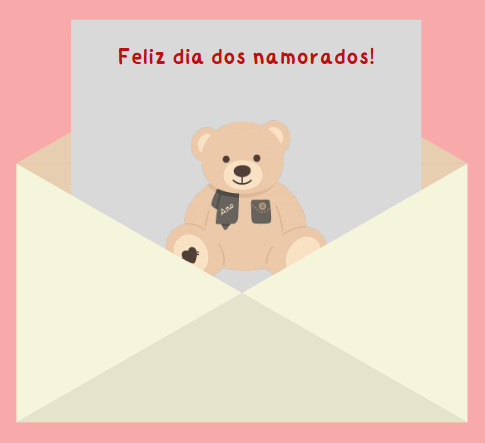
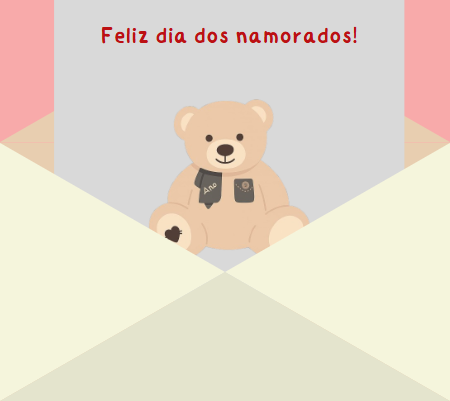
adicionando animações

diff --git a/script.js b/script.js
@@ -3,7 +3,7 @@ const carta = document.getElementById('carta-namorados')
 function abrirCarta() {
     console.log('carta abriu!')
     carta.src = 'imagens/carta-aberta.png'
-    carta.style.height = '200px'
+    carta.style.height = '220px'
 }
 function fecharCarta() {
     console.log('carta fechou!')

diff --git a/style.css b/style.css
@@ -27,4 +27,5 @@ div img#carta-namorados {
     left: 50%;
     top: 50%;
     transform: translate(-50%, -50%);
+    transition: 0.3s;
 }
